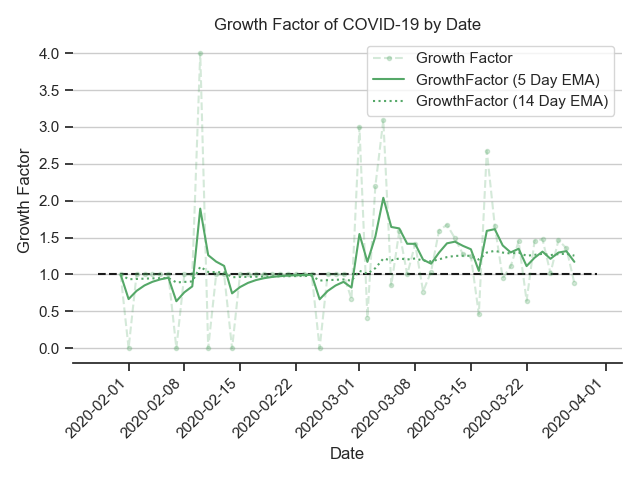
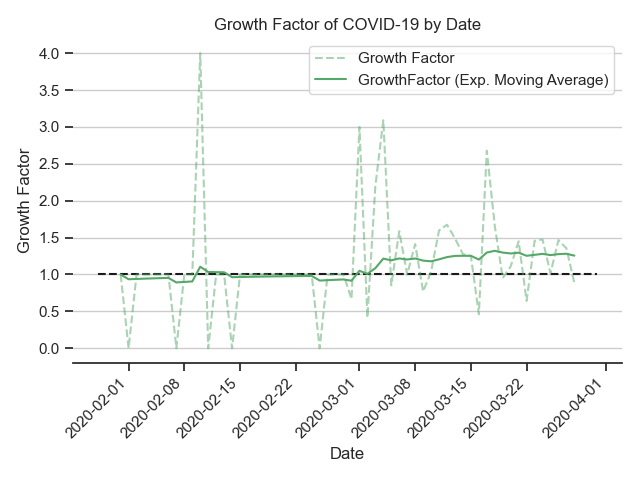
feat: clean up growth factor chart

diff --git a/bin/plots.py b/bin/plots.py
@@ -73,24 +73,15 @@ def plot_growthfactor(data, **kwargs):
         data['GrowthFactor'],
         **kwargs,
         linestyle='--',
-        alpha=0.25,
-        marker='.',
+        alpha=0.5,
         label='Growth Factor'
-    )
-    plt.plot(
-        data['DateVal'],
-        data['GF5DayEMA'],
-        **kwargs,
-        label='GrowthFactor (5 Day EMA)',
-        marker=None,
     )
     plt.plot(
         data['DateVal'],
         data['GF14DayEMA'],
         **kwargs,
-        label='GrowthFactor (14 Day EMA)',
+        label='GrowthFactor (Exp. Moving Average)',
         marker=None,
-        linestyle='dotted',
     )
     plt.gca().xaxis_date()
     plt.legend()
